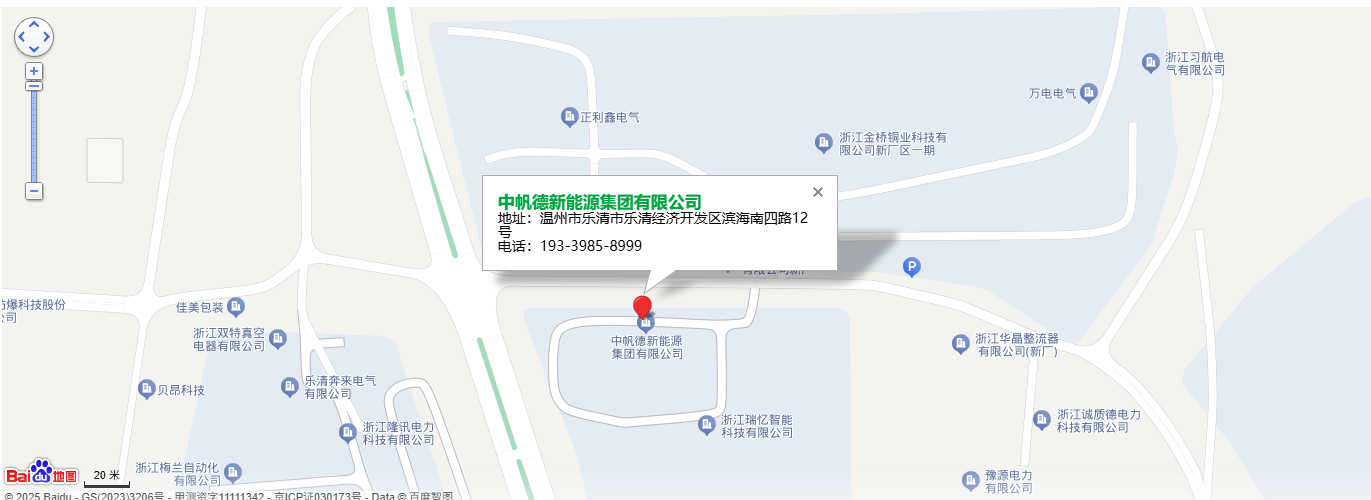
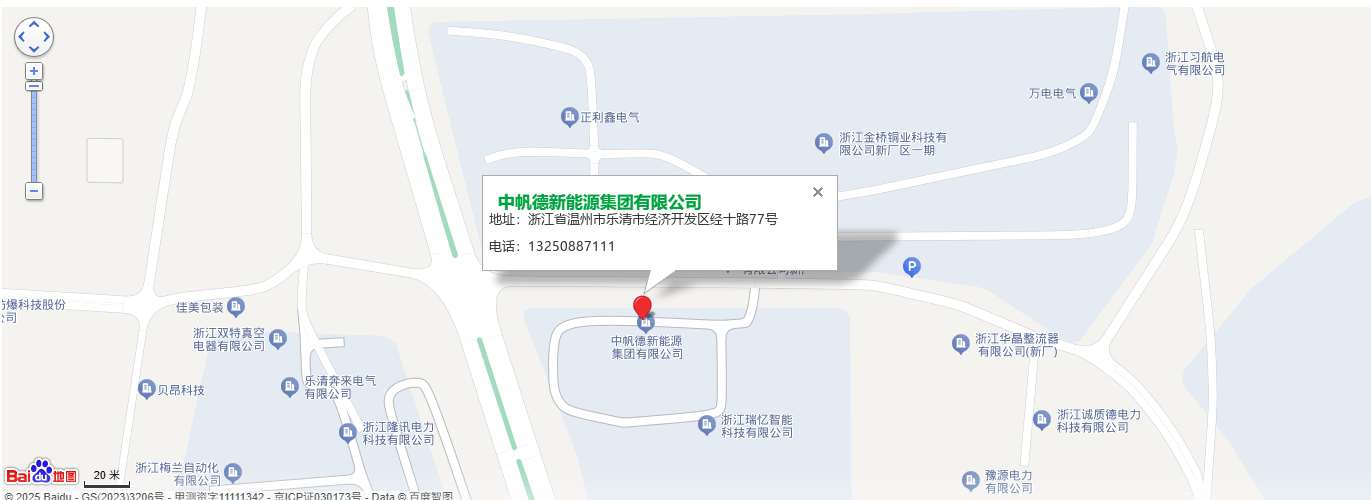
contact: fix map bubble (address Jingshi Rd 77, phone 13250887111) and replace wrong baidu share link with company marker

Changed region(s): [[0.337, 0.42, 0.5821, 0.45], [0.337, 0.48, 0.4902, 0.51]]

diff --git a/contact/index.html b/contact/index.html
@@ -966,7 +966,7 @@
                                 }
                             </style>
                             <div id="myMap" class="he_conten3">
-                                <a href="https://j.map.baidu.com/86/Yhmc" target="_blank">
+                                <a href="https://api.map.baidu.com/marker?location=28.042048,121.009871&title=%E4%B8%AD%E5%B8%86%E5%BE%B7%E6%96%B0%E8%83%BD%E6%BA%90%E9%9B%86%E5%9B%A2%E6%9C%89%E9%99%90%E5%85%AC%E5%8F%B8&content=%E5%9C%B0%E5%9D%80%EF%BC%9A%E6%B5%99%E6%B1%9F%E7%9C%81%E6%B8%A9%E5%B7%9E%E5%B8%82%E4%B9%90%E6%B8%85%E5%B8%82%E7%BB%8F%E6%B5%8E%E5%BC%80%E5%8F%91%E5%8C%BA%E7%BB%8F%E5%8D%81%E8%B7%AF77%E5%8F%B7%0A%E7%94%B5%E8%AF%9D%EF%BC%9A13250887111&output=html&coord_type=gcj02&zoom=17&src=web.chzfd" target="_blank">
                                     <img src="/template/chzfd/assets/img/chzfd-map.png" alt="" />
                                 </a>
                             </div>
